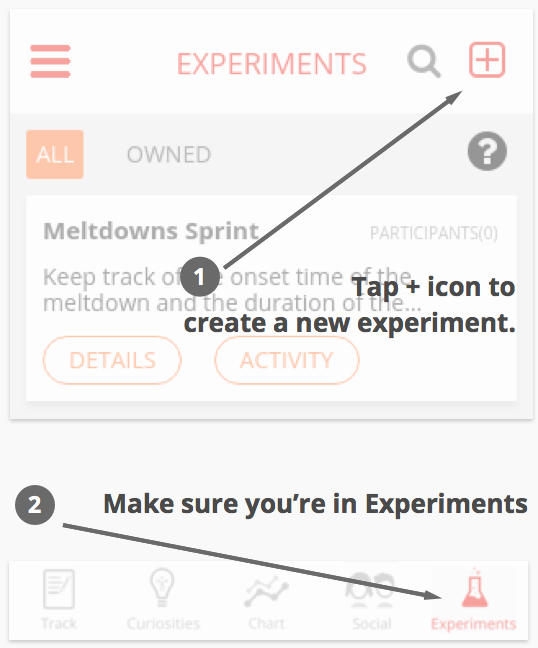
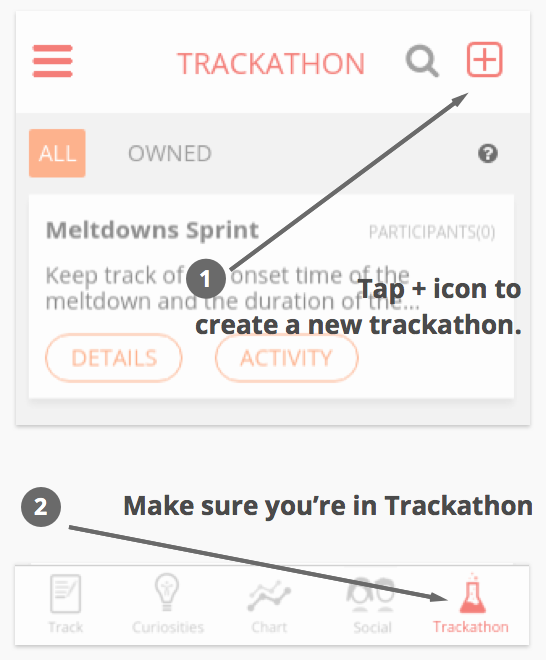
Changed experiments to trackathon. #157

diff --git a/app/src/templates/create-sprint-help.html b/app/src/templates/create-sprint-help.html
@@ -1,14 +1,14 @@
 <div class="help-container draggable-container">
 	<div class="header-bar">
-		Create Experiment
+		Create Trackathon
 	</div>
 	<div class="help-body">
-		<h4>First, what is an experiment?</h4>
-		An experiment is a set of tags that are tracked for a set
-		length of time. You can invite others to your experiment
-		to compare results or go it alone. An experiment is best
+		<h4>First, what is a trackathon?</h4>
+		An trackathon is a set of tags that are tracked for a set
+		length of time. You can invite others to your trackathon
+		to compare results or go it alone. An trackathon is best
 		driven by a research question<br><br>
-		<h4>Example Experiment:</h4>
+		<h4>Example Trackathon:</h4>
 		Does acupuncture affect sleep? Let's find out.
 		<BR>
 		4 weeks without acupuncture to baseline. 2
@@ -19,11 +19,11 @@
 		<h5>Tags:</h5>
 		acupuncture, sleep, cardio, caffeine, alcohol
 		<hr>
-		An experiment can be inspired by a question or it can
+		An trackathon can be inspired by a question or it can
 		be some type of training regimen or anything you
 		find interesting.
 		<br><br>
-		<h4>Example Experiment:</h4>
+		<h4>Example Trackathon:</h4>
 		Training for a 5K by incorporating cross-training 3
 		days per week.
 		<h5>Length:</h5>
@@ -46,7 +46,7 @@
 				<div class="bullets">2</div>
 			</div>
 			<div class="media-body">
-				To create a experiment, make sure you are in EXPERIMENTS
+				To create a trackathon, make sure you are in TRACKATHON
 			</div>
 		</div>
 		<div class="text-center">

diff --git a/app/src/templates/sprint-details.html b/app/src/templates/sprint-details.html
@@ -24,7 +24,7 @@
 		</div>
 		{{ } }}
 		{{ if (isFormView) { }}
-			<input type="text" placeholder="Enter Experiment Title..." id="sprint-title" value="{{= sprint.name }}"></input>
+			<input type="text" placeholder="Enter Trackathon Title..." id="sprint-title" value="{{= sprint.name }}"></input>
 		{{ } else { }}
 		<h2>
 			{{= sprint.name }}
@@ -36,7 +36,7 @@
 			INSTRUCTIONS
 		</label>
 		{{ if (isFormView) { }}
-		<textarea placeholder="Enter Experiment Description..." rows="5" id="sprint-description"
+		<textarea placeholder="Enter Trackathon Description..." rows="5" id="sprint-description"
 				  value="{{= sprint.description }}">{{= sprint.description }}</textarea>
 		{{ } else { }}
 		<p>
@@ -100,11 +100,11 @@
 	</div>
 	{{ if (isFormView && isCreateForm) { }}
 		<button class="full-width-button submit">
-			Create Experiment
+			Create Trackathon
 		</button>
 	{{ } else if (isFormView) { }}
 		<button class="full-width-button submit">
-			Update Experiment
+			Update Trackathon
 		</button>
 	{{ } else { }}
 		<button class="full-width-button activity">

diff --git a/app/src/templates/create-tag-help.html b/app/src/templates/create-tag-help.html
@@ -26,11 +26,11 @@
 			<br>
 			<p>**Make sure you're on the 'Track' tab**</p>
 			<br><br>
-			Type your tag in the box provided above, and then set repeat and alerts, or create a button.
+			Type your tag in the box provided above, and then set repeat and alerts, or bookmark.
 			<br><br>
 			<img src="content/images/help/tag-buttons.png" alt="Tag Modifiers" width="250px">
 			<br><br>
-			See <b>Advanced Tracking</b> for more information about how to make repeat, alert and button tags, s well as setting a repeat frequency, and an end date.
+			See <b>Advanced Tracking</b> for more information about how to make repeat, alert and bookmark tags, s well as setting a repeat frequency, and an end date.
 		</div>
 	</div>
 </div>

diff --git a/app/styles/sprite.css b/app/styles/sprite.css
@@ -52,10 +52,12 @@
 
 .icon-sprints {
 	background-image: url('../content/images/icon-sprints.png');
+	background-size: auto 46px;
 }
 
 .icon-sprints.active {
 	background-image: url('../content/images/icon-sprints-active.png');
+	background-size: auto 45px;
 }
 
 .icon-comment {

diff --git a/app/src/views/help/CreateSprintHelpView.js b/app/src/views/help/CreateSprintHelpView.js
@@ -11,7 +11,7 @@ define(function(require, exports, module) {
 		header: true,
 		footer: true,
 		helpTemplate: CreateSprintHelpTemplate,
-		templateScrollHeight: 1200
+		templateScrollHeight: 1180
 	};
 	CreateSprintHelpView.prototype = Object.create(HelpView.prototype);
 

diff --git a/app/src/views/help/ManageCuriositiesHelpView.js b/app/src/views/help/ManageCuriositiesHelpView.js
@@ -11,7 +11,7 @@ define(function(require, exports, module) {
 		header: true,
 		footer: true,
 		helpTemplate: CuriositiesTemplate,
-		templateScrollHeight: 450
+		templateScrollHeight: 480
 	};
 	ManageCuriositiesHelpView.prototype = Object.create(HelpView.prototype);
 

diff --git a/app/src/views/help/CreateTagHelpView.js b/app/src/views/help/CreateTagHelpView.js
@@ -16,7 +16,7 @@ define(function(require, exports, module) {
 		header: true,
 		footer: true,
 		helpTemplate: CreateTagHelpTemplate,
-		templateScrollHeight: 290
+		templateScrollHeight: 400
 	};
 	CreateTagHelpView.prototype = Object.create(HelpView.prototype);
 

diff --git a/app/src/views/help/MakeChartHelpView.js b/app/src/views/help/MakeChartHelpView.js
@@ -11,7 +11,7 @@ define(function(require, exports, module) {
 		header: true,
 		footer: true,
 		helpTemplate: MakeChartTemplate,
-		templateScrollHeight: 650
+		templateScrollHeight: 680
 	};
 	MakeChartHelpView.prototype = Object.create(HelpView.prototype);
 

diff --git a/app/src/data/HelpContentData.js b/app/src/data/HelpContentData.js
@@ -16,7 +16,7 @@ define(function(require, exports, module) {
 		title: 'Share',
 		destinationPage: 'ShareHelpView'
 	}, {
-		title: 'Create an experiment',
+		title: 'Create a trackathon',
 		destinationPage: 'CreateSprintHelpView'
 	}];
 });

diff --git a/app/src/views/sprint/SprintListView.js b/app/src/views/sprint/SprintListView.js
@@ -58,7 +58,7 @@ define(function(require, exports, module) {
 		});
 
 		this.setRightIcon(this.plusSurface);
-		this.setHeaderLabel('EXPERIMENTS');
+		this.setHeaderLabel('TRACKATHON');
 
 
 		this.plusSurface.on('click', function(e) {

diff --git a/app/styles/app.css b/app/styles/app.css
@@ -3034,6 +3034,11 @@ input.cropit-image-zoom-input {
 	margin-top: 20px;
 }
 
+.help-body p {
+	font-size: 12px;
+	font-style: italic;
+}
+
 .help-body hr {
 	border-top: 2px solid #d8d8d8;
 	margin: 30px 0px;

diff --git a/app/src/templates/experiment-explanation-card.html b/app/src/templates/experiment-explanation-card.html
@@ -1,5 +1,5 @@
 <div class="explanation-card experiment">
-	<h2>What is an Experiment?</h2>
+	<h2>What is a Trackathon?</h2>
 	<div class="close">
 		<i class="fa fa-times-circle"></i>
 	</div>
